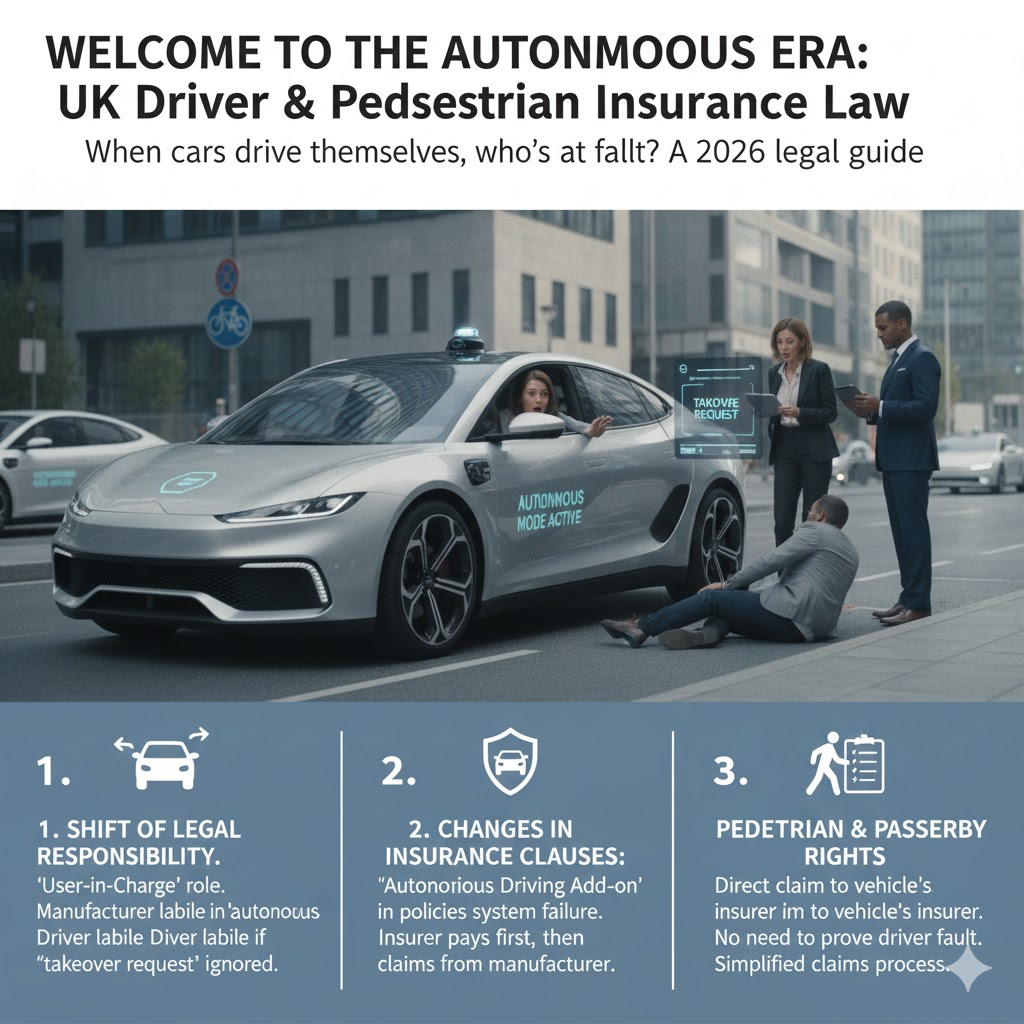
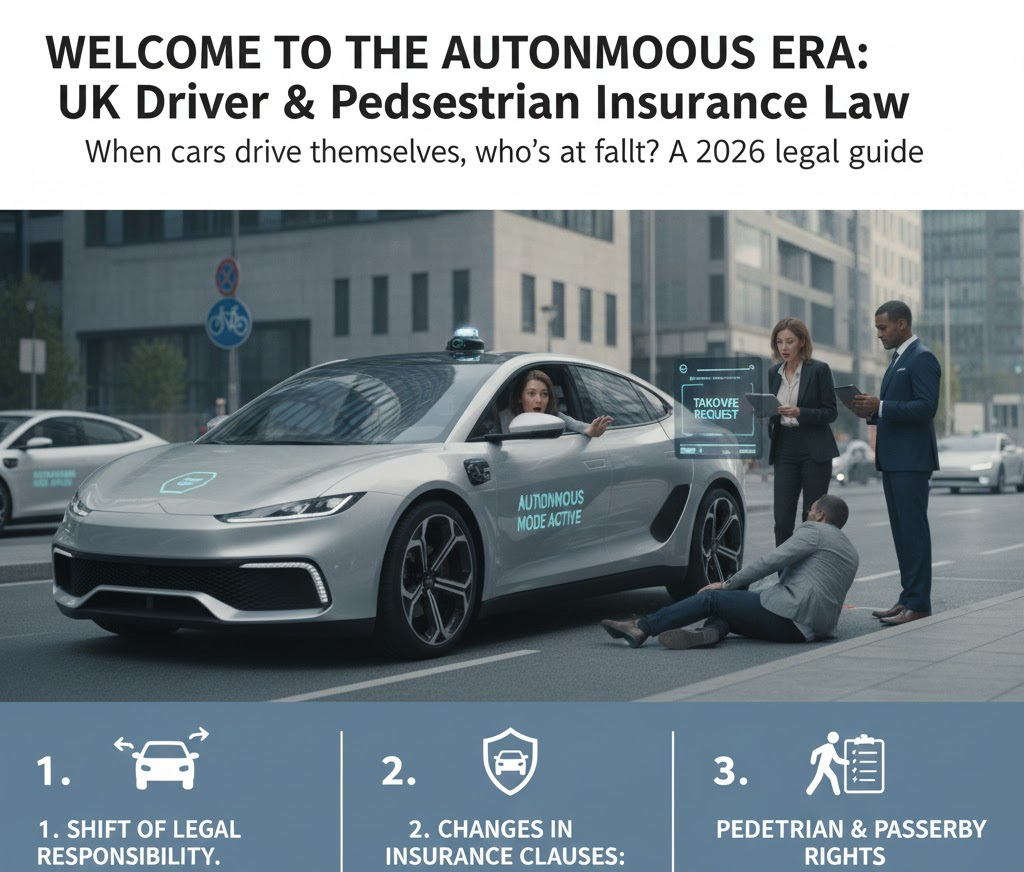
Add files via upload

diff --git a/index.html b/index.html
@@ -749,6 +749,21 @@ a:hover { text-decoration:underline; }
       <div class="widget-head"><h3>每週重點新聞頻道<p>港英時報 - The UK Hong Konger Times </p></h3><div class="widget-sub">Click on article titles to read full content</div></div>
       <div id="weeklyContent" class="small">
         
+  
+                  <div class="weekly-column-title" onclick="openArticleModal('renters_reform_2026')">
+          <strong> 🏠 租務改革法案全面執行：2026 年起禁止所有「無過錯驅逐」</p></strong>
+          <div class="widget-sub">Click to read</div>
+        </div>                
+  
+            <div class="weekly-column-title" onclick="openArticleModal('minimum_wage_2026')">
+          <strong>💰 2026 年最低工資調升方案公佈，時薪預計突破 £13 大關<p>政府宣佈 4 月份新財政年度的薪酬調整方案，旨在減輕低收入家庭的通脹壓力。</p></strong>
+          <div class="widget-sub">Click to read</div>
+        </div>               
+  
+              <div class="weekly-column-title" onclick="openArticleModal('autonomous_driving_2026')">
+          <strong>🚗 英國首批自動駕駛汽車正式合法上路，啟動高速公路運行<p>英國正式進入自動駕駛時代，成為全球首批允許高度自動化駕駛車輛商業運行的國家之一。</p></strong>
+          <div class="widget-sub">Click to read</div>
+        </div>             
         
                 <div class="weekly-column-title" onclick="openArticleModal('uk_school_rankings_2026')">
           <strong> 🎓 2026 英國公立學校最新排名發佈：倫敦及曼城學區競爭白熱化<p>小學申請 1 月 15 日截止，家長需留意 Ofsted 最新「卓越」評級變動</p></strong>
@@ -1111,6 +1126,71 @@ const MONTHLY_DATA = {
 
 // 文章内容数据
 const ARTICLE_CONTENT = {
+ 
+ renters_reform_2026: {
+        title: "🏠 租務改革法案全面執行：2026 年起禁止所有「無過錯驅逐」",
+        subtitle: "Section 21 正式走入歷史，這項被譽為「一代人以來最大」的租務改革將徹底改變英國租屋市場。",
+        content: `
+            <div class="chinese-section">
+                                                    <img src="https://locationpro.org/uk_housing_keys.jpg" alt="租務改革法案" style="width: 100%; border-radius: 8px; margin: 10px 0;">
+            
+                <h4>改革核心內容</h4>
+                <p>自 2026 年 1 月起，《租客改革法案》(Renters' Reform Act) 的最後階段正式生效。最引人注目的變動是全面廢除「Section 21」無過錯驅逐條款。現在，房東若要收回物業，必須提供法定的正當理由（如欠租、違法行為或房東需自住）。</p>
+                <h4>對租客的保障</h4>
+                <p>新規還包括：禁止房東拒絕有小孩或領取福利的租客、賦予租客養寵物的法定權利（房東可要求租客購買寵物保險）。這對於依賴租屋居住的 BNO 家庭來說，提供了極大的居住穩定性。</p>
+            </div>
+            <div class="english-section">
+                <h4>Core Reforms</h4>
+                <p>Starting January 2026, the final phase of the Renters' Reform Act is now in effect. The most significant change is the total abolition of 'Section 21' no-fault evictions. Landlords must now provide a valid legal reason to end a tenancy.</p>
+                <h4>Tenant Protections</h4>
+                <p>The new rules also ban discrimination against families with children or those on benefits, and grant tenants a legal right to request pets, enhancing long-term stability for renters.</p>
+            </div>
+        `,
+        date: "2026年1月7日"
+    },
+    
+    minimum_wage_2026: {
+        title: "💰 2026 年最低工資調升方案公佈，時薪預計突破 £13 大關",
+        subtitle: "政府宣佈 4 月份新財政年度的薪酬調整方案，旨在減輕低收入家庭的通脹壓力。",
+        content: `
+            <div class="chinese-section">
+                                        <img src="https://locationpro.org/uk_payslip_check.jpg" alt="最低工資調升方案公佈" style="width: 100%; border-radius: 8px; margin: 10px 0;">
+            
+                <h4>薪酬調升細節</h4>
+                <p>財政部本週確認，從 2026 年 4 月起，21 歲及以上勞工的全國生活工資 (National Living Wage) 將從目前的 £12.21 調升至 <strong>£13.05</strong>。這是為了確保低薪勞工的收入增長能跟上租金與日常開支的升幅。</p>
+                <h4>中小企的挑戰</h4>
+                <p>雖然這對基層員工是利好消息，但餐飲業與零售業的中小企業表示，工資成本的急劇增加可能導致物價進一步上調。預計 2026 年外食與個人護理服務的價格將出現微升。</p>
+            </div>
+            <div class="english-section">
+                <h4>Wage Adjustment Details</h4>
+                <p>The Treasury confirmed that from April 2026, the National Living Wage for those aged 21 and over will rise to <strong>£13.05</strong> per hour, up from £12.21, to help workers cope with rising living costs.</p>
+                <h4>Impact on Businesses</h4>
+                <p>While a win for workers, SMEs in the hospitality and retail sectors warn that the sharp increase in labor costs may lead to further price hikes for consumers in 2026.</p>
+            </div>
+        `,
+        date: "2026年1月6日"
+    },
+    autonomous_driving_2026: {
+        title: "🚗 英國首批自動駕駛汽車正式合法上路，啟動高速公路運行",
+        subtitle: "英國正式進入自動駕駛時代，成為全球首批允許高度自動化駕駛車輛商業運行的國家之一。",
+        content: `
+            <div class="chinese-section">
+                            <img src="https://locationpro.org/uk_car_insurance.jpg" alt="英國首批自動駕駛汽車" style="width: 100%; border-radius: 8px; margin: 10px 0;">
+            
+                <h4>法律框架生效</h4>
+                <p>隨著 2026 年《自動駕駛車輛法案》配套法規的通過，符合安全標準的車輛現獲准在特定高速公路（Motorways）上啟動「全自動模式」。在該模式下，法律認定車輛製造商而非司機應對行車安全負責。</p>
+                <h4>安全守則與限制</h4>
+                <p>目前此項授權僅限於天氣良好且交通流量受控的路段。政府已在倫敦至曼徹斯特的 M6 路段設置了專屬測試與運行區。這項技術的商業化預計將顯著提升長途物流效率並降低交通事故率。</p>
+            </div>
+            <div class="english-section">
+                <h4>Legal Framework</h4>
+                <p>With the 2026 Autonomous Vehicles Act regulations now in force, certified vehicles are permitted to operate in 'full-auto mode' on specific motorways. Legally, manufacturers will be held liable for safety while in this mode.</p>
+                <h4>Restrictions</h4>
+                <p>Initial authorization is limited to fair weather conditions on controlled motorway sections, such as the M6 corridor. This marks a major step in the UK's ambition to lead in transport tech.</p>
+            </div>
+        `,
+        date: "2026年1月5日"
+    },
  
 
     council_tax_hike_2026: {
